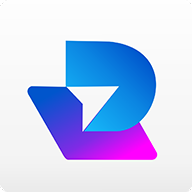
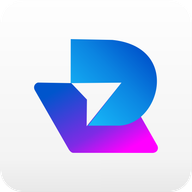
Новый логотип во всех иконках приложения и на сайте
Исправленный артворк заменил прежний везде, где показывается иконка:
15 PNG приложения (манифест PWA, maskable-варианты, весь favicon-пак),
favicon.ico, RentOS-icon.svg на экране приветствия — и восемь размеров
site_icon на rentos365.app.

Отличие от прежней версии — 9,2% пикселей, то есть точечная правка самого
рисунка, а не другой логотип.

Файлы сайта подменены поверх существующих: URL и id вложения не менялись,
значит метаданные пересчитывать не нужно и ссылки нигде не протухли.
Почищены все три слоя кэша — background-css, min и wp-rocket.

Мастер положен в public/icon-library/pwa/RentOS-icon-master.png, чтобы
следующая перегенерация не зависела от файла на чьём-то диске.

Комментарий на экране приветствия поправлен под новую геометрию: у нового
SVG viewBox 770.4 и rx 77.47 — это ровно 10,05%, совпадает с клипом
rounded-[10%], под который он и писался.

Changed region(s): [[0.125, 0.1875, 0.8438, 0.8438], [0.7812, 0.4688, 0.8125, 0.5625], [0.5, 0.5625, 0.5312, 0.5938]]

diff --git a/src/app/(app)/dashboard-home.tsx b/src/app/(app)/dashboard-home.tsx
@@ -52,8 +52,8 @@ export function WelcomeCard() {
       {/* Стеклянный блик по логотипу главного экрана — виден только здесь
           (первый экран приветствия), на AuthCard логотип статичный.
           Клип по rounded-[10%] повторяет скругление самого артворка
-          (rx=55.01 на viewBox 546.99 в RentOS-icon.svg), чтобы блик не
-          вылезал за силуэт иконки прямоугольными углами. */}
+          (rx=77.47 на viewBox 770.4 в RentOS-icon.svg — ровно 10,05%), чтобы
+          блик не вылезал за силуэт иконки прямоугольными углами. */}
       <div className="relative size-24 overflow-hidden rounded-[10%]">
         {/* eslint-disable-next-line @next/next/no-img-element */}
         <img src="/icon-library/pwa/RentOS-icon.svg" alt="" className="size-full" />
